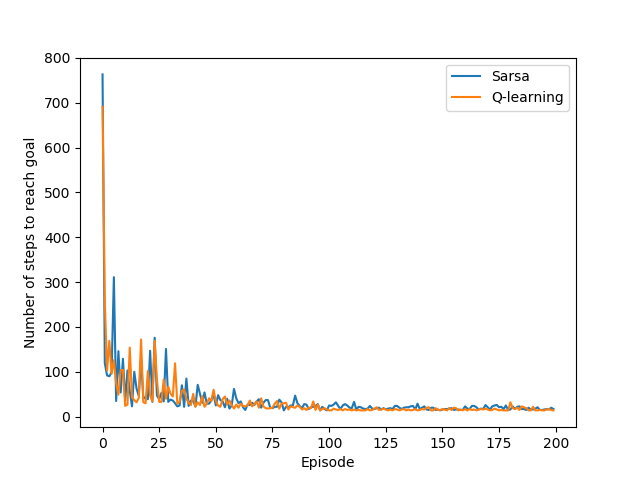
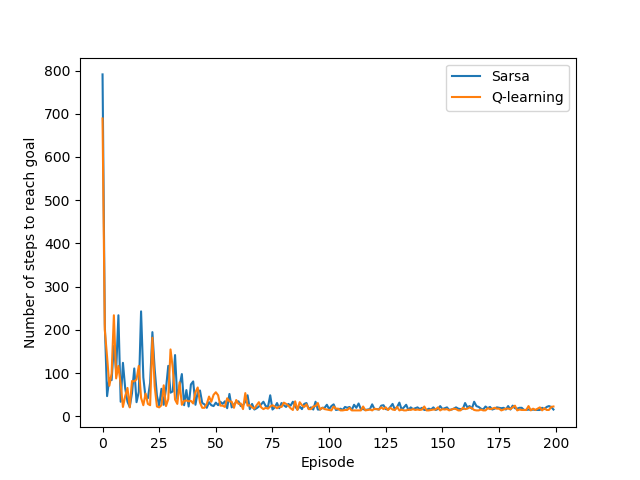
Small changes

diff --git a/windy_gridworld.py b/windy_gridworld.py
@@ -50,27 +50,29 @@ class Environment:
             return 0
         return -1
 
+def epsilon_greedy(epsilon, Q, s):
+    a = np.argmax(Q[s[0], s[1], :])
+    if np.random.rand() < epsilon:
+        a = np.random.randint(0, 4)
+    return a
+
 class SarsaAgent:
     def __init__(self, alpha, epsilon):
         self.alpha = alpha
         self.epsilon = epsilon
         self.Q = np.zeros((10, 7, 4))
+        self.a = 0
 
-    def take_step(self, environment):
+    def step(self, environment):
+        # Take action
         s = environment.state
-
-        # Select action epsilon-greedily
-        a = np.argmax(self.Q[s[0], s[1], :])
-        if np.random.rand() < self.epsilon:
-            a = np.random.randint(0, 4)
-        r = environment.take_action(Action(a))
-
-        # Update Q
+        r = environment.take_action(Action(self.a))
         s_prime = environment.state
-        a_prime = np.argmax(self.Q[s_prime[0], s_prime[1], :])
-        if np.random.rand() < self.epsilon:
-            a_prime = np.random.randint(0, 4)
-        self.Q[s[0], s[1], a] += self.alpha * (r + self.Q[s_prime[0], s_prime[1], a_prime] - self.Q[s[0], s[1], a])
+
+        # Select next action and update Q
+        a_prime = epsilon_greedy(self.epsilon, self.Q, s_prime)
+        self.Q[s[0], s[1], self.a] += self.alpha * (r + self.Q[s_prime[0], s_prime[1], a_prime] - self.Q[s[0], s[1], self.a])
+        self.a = a_prime
 
         # Check if goal has been reached
         if r == 0:
@@ -83,17 +85,16 @@ class QLearningAgent:
         self.epsilon = epsilon
         self.Q = np.zeros((10, 7, 4))
 
-    def take_step(self, environment):
+    def step(self, environment):
+        # Select action
         s = environment.state
+        a = epsilon_greedy(self.epsilon, self.Q, s)
 
-        # Select action epsilon-greedily
-        a = np.argmax(self.Q[s[0], s[1], :])
-        if np.random.rand() < self.epsilon:
-            a = np.random.randint(0, 4)
+        # Take action
         r = environment.take_action(Action(a))
+        s_prime = environment.state
 
         # Update Q
-        s_prime = environment.state
         self.Q[s[0], s[1], a] += self.alpha * (r + np.max(self.Q[s_prime[0], s_prime[1], :]) - self.Q[s[0], s[1], a])
 
         # Check if goal has been reached
@@ -119,7 +120,7 @@ if __name__ == "__main__":
         for episode in range(NUM_EPISODES):
             environment = Environment(STARTING_STATE)
             for num_steps[agent_index, episode] in range(MAX_NUM_STEPS):
-                at_goal = agent.take_step(environment)
+                at_goal = agent.step(environment)
                 if at_goal:
                     break
 
